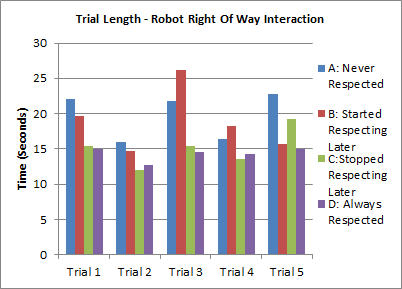
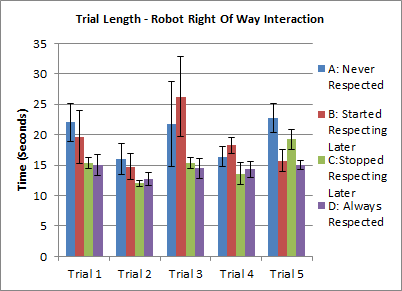
In-progress updates on the 10th.

diff --git a/root.tex b/root.tex
@@ -108,11 +108,11 @@ There is also evidence that humans are willing to reciprocate with robots that a
 
 \subsection{Autonomous Robot Behavior}
 
-One assumption made here is that multi-robot systems introduced to human environments will be autonomous and governed by behaviors like the one we propose for doorway negotiation. [New reference to bridge the gap on why autonomous, mobile robots are a good choice for this problem]
+One assumption made here is that multi-robot systems introduced to human environments will be autonomous and governed by behaviors like the one we propose for doorway negotiation. [New reference to bridge the gap on why autonomous, distributed robots are a good choice for this problem]
 
 %It can be difficult to find a consistent, agreed-upon definition for autonomy, but Bekey suggests\cite{c10} ``Autonomy refers to systems capable of operating in the real-world environment without any form of external control for extended periods of time." This definition is broad, but it captures the benefit we articulated earlier of integrating robots into existing human (``real world") environments who are capable of holding up their end during social interactions without direct guidance(``external control"). 
 
-Existing research on multi-robot systems in the workplace have often had these autonomous characteristics. The STRANDS project\cite{c11} is a sizable example where teams of robots are deployed to real office spaces for months at a time, with the stated goal of learning how to adapt and survive changes in the environment that would be fatally outside the scope of less independent robot systems. Dealing with humans around doorways is also an issue they encountered, but addressed only indirectly with passivity on the part of the robot.
+Existing research on multi-robot systems in the workplace have often had these autonomous characteristics. The STRANDS project\cite{c11} is a sizable example where teams of robots are deployed to real office spaces for months at a time, with the stated goal of learning how to adapt and survive changes in the environment that would be fatally outside the scope of less independent robot systems. Dealing with humans around doorways is also an issue they encountered, but addressed only indirectly with passivity on the part of the robot, where humans around doors are treated as obstacles blocking them off.
 
 These autonomous, distributed characteristics will also be present in the systems coming to share human spaces that we mentioned earlier. The self-driving car is the most obvious example, referred to almost interchangeably as the autonomous car in the popular press\cite{c12}. The conditions involved in driving – wide open spaces, large numbers of human and robot agents, the need to act quickly without guidance in network-denied environments – all necessitate an autonomous and distributed approach.
 
@@ -168,7 +168,7 @@ The final behavior flowchart can be seen in Figure~\ref{fig:Assertive}. While th
 
 \section{EXPERIMENT AND STUDY}
 
-Our behaviour is presented. In order to test this theory, we have three hypotheses concerning our system that we evaluated through our robot-robot experiment and human-robot study:
+Our behaviour is presented as a socially compliant means to resolving navigation deadlocks around doors that humans can recognize and, through reciprocation, cooperate with to the benefit of the shared space. In order to test this theory, we have three hypotheses concerning our system that we evaluated through our robot-robot experiment and human-robot study:
 
 \textbf{H1)} The assertive behaviour resolves doorway navigation deadlocks for both human and robot agents.
 
@@ -198,6 +198,13 @@ The expected outcome for each trial would be that the more assertive, nearer rob
 \subsection{Human-Robot Study}
 
 20 participants were recruited from the general population of Simon Fraser University, including 8 women and 12 men, and were not compensated for their assistance.
+
+     \begin{figure}
+      \centering
+      \includegraphics[scale=0.5]{test_example.png}
+      \caption{Example of a human study participant deferring to the robot's right of way}
+      \label{fig:Example}
+   \end{figure}
 
 Each participant was brought to the test environment and seated across from the test conductor in the smaller room, passing by the robot prepared for the experiment in the larger room. Every trial had the participant drop a document in a box in the larger room while the robot entered the smaller room to pick up some excess paperwork, causing incidental interactions at the doorway dividing the two rooms. Each participant completed five trials:
 
@@ -274,7 +281,7 @@ What other feedback?\\
      \begin{figure}
       \centering
       \includegraphics{outcomes.png}
-      \caption{Outcomes Of Human-Robot Study Interactions }
+      \caption{Outcomes Of Human-Robot Study Interactions Per Trial}
       \label{fig:Outcomes}
    \end{figure}
 
@@ -290,7 +297,7 @@ D) Those who always respected the robot's right of way.
 
 Our 20 participants were divided relatively evenly between these four categories, with five in A), four in B), five in C) and six in D).
  
-\textbf{2) Timing:} Our data from both the robot-robot experiment and human-robot study is collected in Figure~\ref{fig:Interaction} for time both subjects spent interacting during each trial and Figure~\ref{fig:Trial} for total time until both subjects reach their destinations, with standard deviation error bars. In each study trial, part 1 was the interaction where the human had right of way, while the robot had right of way in part 2. For context, one Pioneer making the 6m journey from one starting point to the other uninterrupted takes approximately 12 seconds.   
+\textbf{2) Timing:} Our data from both the robot-robot experiment and human-robot study is collected in Figure~\ref{fig:Interaction} for time both subjects spent interacting during each trial and Figure~\ref{fig:Trial} for total time until both subjects reach their destinations, with standard deviation error bars here and elsewhere. In each study trial, part 1 was the interaction where the human had right of way, while the robot had right of way in part 2. For context, one Pioneer making the 6m journey from one starting point to the other uninterrupted takes approximately 12 seconds.   
  
 
        \begin{figure}
@@ -310,7 +317,7 @@ Our 20 participants were divided relatively evenly between these four categories
 
 The robot-robot behavior is much slower than any human-involved behavior, however, the human-robot interactions observed in the four non-teleoperated trials are only marginally slower than the interaction in the second trial, where a human is controlling the robot. This suggests that in terms of efficiency, our behavior may already be operating close to what may be possible for the given robot platform. While an abundance of caution on the part of the robots may make the behavior slow on its own, human interlocutors compensate during interactions in much the same way regardless of how the robot is being controlled. 
 
-If we break down these time results according to our four participant behaviour categories, seen in Figure~\ref{fig:Respect}, we found that participants who did not respect the robot's right of way had higher trial times than those who did. This reflects that while going out of turn might benefit the human, it degrades the throughput of the overall system. 
+If we break down these time results according to our four participant behaviour categories, seen in Figure~\ref{fig:Respect}, we found that participants who did not respect the robot's right of way had higher trial times than those who did. This reflects that while going out of turn might benefit the human individually, it degrades the throughput of the overall environment. 
      \begin{figure}
       \centering
       \includegraphics{Robot_right.png}
@@ -358,6 +365,9 @@ Trial 5 & 4\\
 
 What we do see are common justifications shared by participants who chose the same trial as their preference. All three participants who chose trial 4 cited that they preferred the decision on whether to defer to the robot or not be taken out of their hands by the test conductor, and similarly those who chose trial 2 mostly cited the speed of the interaction when the robot was being teleoperated. Participants who chose trials 1, 3 and 5 mentioned the robot interacted smoothly, sometimes even directly referencing the humanlike characteristics of the behaviour.
 
+The teleoperated trial was not notably preferred by participants in questionnaire results and that those who chose it did not cite the human operator as a cause, which suggests who was ultimately in control was not a significant factor in participant reaction to the robot. [Participant comments focus on the physical touches that make the robot interactions smoother]
+
+
 \section{DISCUSSION}
 
 [Still being heavily reworked in light of the developing plan for the results section. The new hypotheses are stronger, clearer and easier to argue for but do need all the results in. The other subsections will likely be reworked depending on whether certain points end up in earlier sections or are left over to talk about at the end, like some of the participant feedback on enhancing the behaviour.]
@@ -378,7 +388,7 @@ This leads into our third hypothesis.[ongoing]
 
 %The outcome data also holds promising results for our third hypothesis – while a plurality of participants did not recognize the robot’s right of way, a significant portion did, and more importantly a significant portion more did upon learning in the fourth trial that they could. For those who did, [speculative] the effect on performance saw a slight increase in interaction time in return for a decrease in overall trial time. This is expanded on in the accounts that include [account analysis ongoing], and the post-test questionnaires where [also ongoing].
 
-That the teleoperated trial was not notably preferred by participants in questionnaire results and that those who chose it did not cite the human operator as a cause supports that who was ultimately in control was not a significant factor.
+
 
 %Based on these results, we can conclude that while our behavior did not achieve perfect equivalence between humans and robots in navigation, it is nevertheless a functional approach for negotiating doorway passage in mixed human-robot company. It provoked the beginnings of social recognition in some participants, demonstrating the gap is bridgeable and that when it is bridged the performance of the group benefits. 
 
